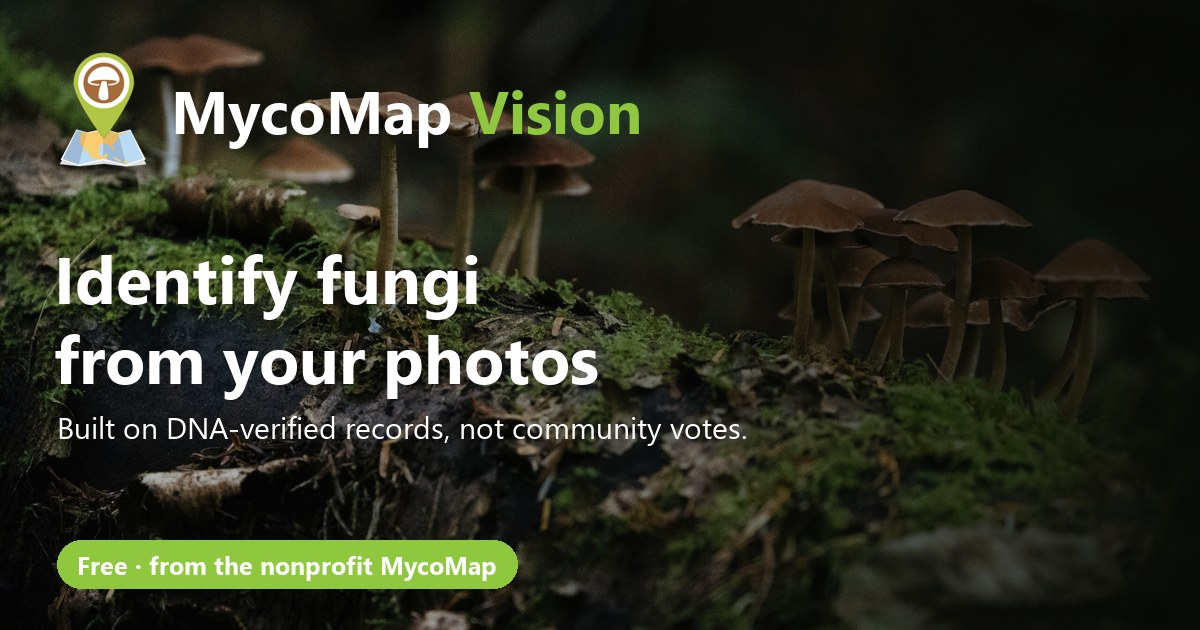
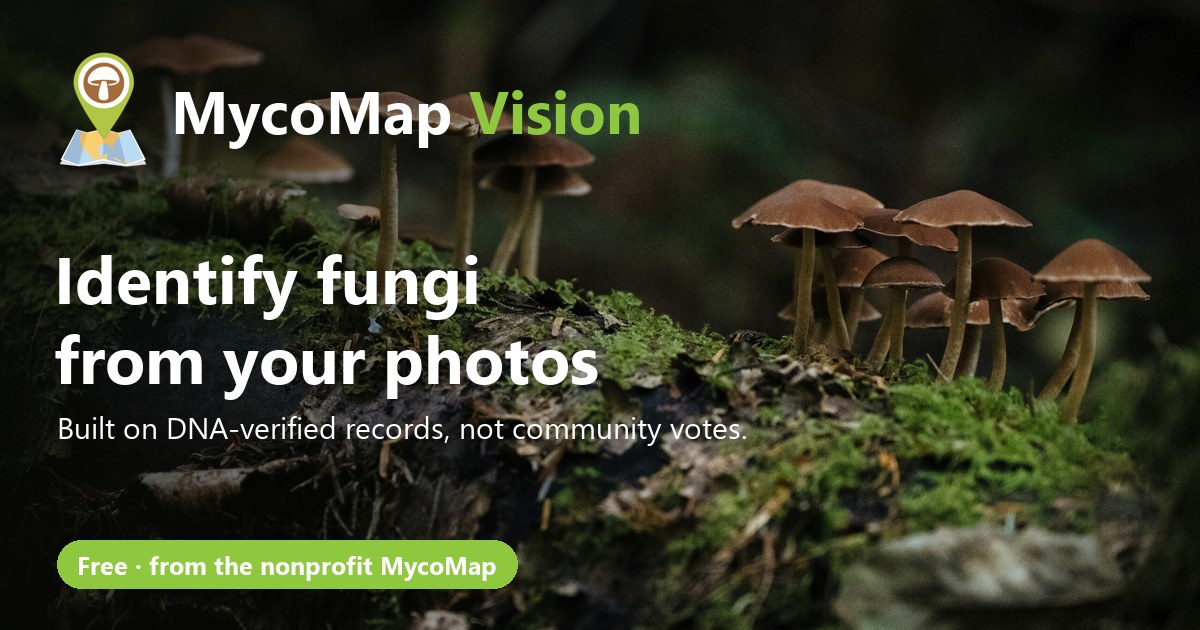
Site link card: darken only behind the words; the right half is the photo as it is
Steve, 2026-10-20: "have it not go as dark black to the right". The fade
ran the wrong way (darkest on the right). It now starts at about 80% black
at the left edge and is gone two thirds across; the right side matches the
photo's own brightness.

diff --git a/scripts/make_og_card.py b/scripts/make_og_card.py
@@ -29,9 +29,13 @@ def draw(photo: Path, credit: str, logo: Path, focus=(0.5, 0.5)) -> Image.Image:
     with Image.open(photo) as img:
         card = ImageOps.fit(ImageOps.exif_transpose(img).convert("RGB"), CARD_SIZE,
                             Image.LANCZOS, centering=focus).convert("RGBA")
-    # Dark on the left, where the words are, clearing to the right.
-    fade = Image.linear_gradient("L").rotate(90, expand=True).resize((W, H))
-    fade = fade.point(lambda v: int(40 + 175 * (v / 255) ** 1.6))
+    # Dark only behind the words on the left, clear from just past the middle, so the right
+    # half shows the photo as it is (Steve, 2026-10-20: "have it not go as dark black to the
+    # right").
+    reach = int(W * 0.66)
+    column = Image.new("L", (W, 1))
+    column.putdata([int(205 * max(0.0, 1 - x / reach) ** 1.25) for x in range(W)])
+    fade = column.resize((W, H))
     shade = Image.new("RGBA", CARD_SIZE, (8, 10, 6, 255))
     shade.putalpha(fade)
     card.alpha_composite(shade)
